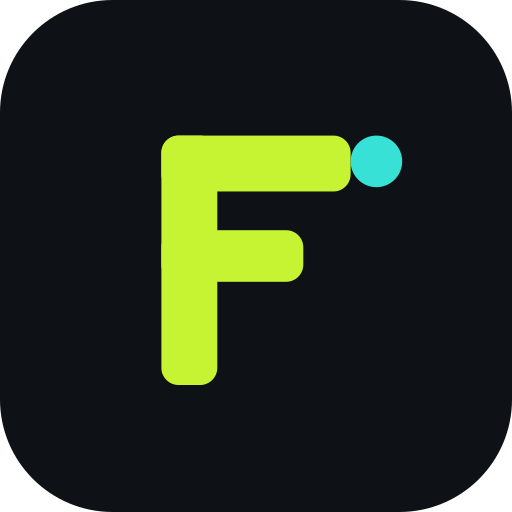
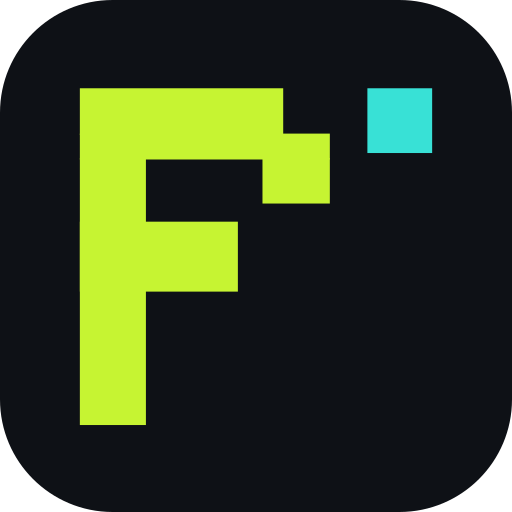
feat(brand): set the wordmark in Pixelify Sans
The Fizz mark now uses a pixel face everywhere it appears as a logo rather
than as prose: nav, footer, login, sidebar, dashboard shell, splash, error
screens, the public menu, the printable menu, and the QR frames.

Two things worth knowing:

- `.font-wordmark` is a plain CSS rule, not an `@theme` token. Tailwind v4
  tree-shakes theme vars along with their utility, and `--font-wordmark` kept
  getting dropped from the output, so every wordmark silently fell back to
  Inter.

- The `F` app icon is the real Pixelify Sans glyph traced off a canvas
  rasterisation and inlined as rects — sharp's SVG rasteriser can't resolve
  fonts, and a hand-drawn F misses the stepped top bar and the top-right hook
  that make the letterform recognisable.

Icons and splashes regenerated, and the service worker version bumped so
installed clients don't keep serving the old mark from the shell cache.

Changed region(s): [[0.1562, 0.1562, 0.8438, 0.8438]]

diff --git a/app/layout.tsx b/app/layout.tsx
@@ -1,5 +1,5 @@
 import type { Metadata, Viewport } from "next";
-import { Space_Grotesk, Inter } from "next/font/google";
+import { Space_Grotesk, Inter, Pixelify_Sans } from "next/font/google";
 import "./globals.css";
 import { Agentation } from "agentation";
 import Toaster from "@/components/fizz/Toaster";
@@ -26,6 +26,13 @@ const sans = Inter({
   subsets: ["latin"],
   weight: ["400", "500", "600"],
   variable: "--font-inter",
+});
+
+// Pixel face for the wordmark only.
+const wordmark = Pixelify_Sans({
+  subsets: ["latin"],
+  weight: ["500", "700"],
+  variable: "--font-pixel",
 });
 
 export const metadata: Metadata = {
@@ -71,7 +78,7 @@ export default function RootLayout({
     // <html> before React hydrates — suppress the mismatch they cause.
     <html
       lang="en"
-      className={`${display.variable} ${sans.variable} h-full antialiased`}
+      className={`${display.variable} ${sans.variable} ${wordmark.variable} h-full antialiased`}
       suppressHydrationWarning
     >
       <body className="min-h-full bg-ink text-cream">

diff --git a/app/login/page.tsx b/app/login/page.tsx
@@ -16,7 +16,7 @@ export default function LoginPage() {
         <Bubbles />
         <Link
           href="/"
-          className="relative z-10 font-display text-3xl font-bold tracking-tight"
+          className="relative z-10 font-wordmark font-bold text-3xl"
         >
           Fi<span className="text-fizz">zz</span>
           <span className="align-super text-xs text-bubble">●</span>
@@ -46,7 +46,7 @@ export default function LoginPage() {
         <div className="mx-auto w-full max-w-sm">
           <Link
             href="/"
-            className="mb-10 inline-block font-display text-2xl font-bold tracking-tight lg:hidden"
+            className="mb-10 inline-block font-wordmark font-bold text-2xl lg:hidden"
           >
             Fi<span className="text-fizz">zz</span>
             <span className="align-super text-xs text-bubble">●</span>

diff --git a/components/fizz/menu/PrintableMenu.tsx b/components/fizz/menu/PrintableMenu.tsx
@@ -848,7 +848,7 @@ const PRINT_CSS = `
 .pdf-reach-value { font-size: 15px; color: var(--pg-fg); font-weight: 600; }
 .pdf-hours { margin: 22px 0 0; font-size: 14px; color: var(--pg-muted); }
 .pdf-thanks { margin: 48px 0 0; font-size: 26px; font-weight: 700; color: var(--pg-fg); }
-.pdf-wordmark { margin: 10px 0 0; font-size: 14px; color: var(--pg-muted); font-weight: 600; }
+.pdf-wordmark { margin: 10px 0 0; font-size: 14px; color: var(--pg-muted); font-weight: 700; font-family: var(--font-pixel), ui-monospace, monospace; }
 .pdf-dot { color: var(--pg-accent); vertical-align: super; font-size: 9px; margin-left: 1px; }
 
 /* ===== Creative layout extras ===== */

diff --git a/components/fizz/landing/Loop.tsx b/components/fizz/landing/Loop.tsx
@@ -40,7 +40,7 @@ export default function Loop() {
 
             {/* Center hub */}
             <div className="absolute left-1/2 top-1/2 flex h-28 w-28 -translate-x-1/2 -translate-y-1/2 flex-col items-center justify-center rounded-full border border-ink-line bg-ink-soft text-center">
-              <span className="font-display text-lg font-bold tracking-tight">
+              <span className="font-wordmark font-bold text-lg">
                 Fi<span className="text-fizz">zz</span>
                 <span className="align-super text-[0.6em] text-bubble">●</span>
               </span>

diff --git a/components/fizz/menu/MenuQrModal.tsx b/components/fizz/menu/MenuQrModal.tsx
@@ -448,7 +448,10 @@ export default function MenuQrModal({
 
               <div style={{ fontSize: 11, color: frame.muted, wordBreak: "break-all" }}>
                 {url.replace(/^https?:\/\//, "")}
-                <div style={{ marginTop: 8, fontSize: 11, color: frame.accent, fontWeight: 600 }}>
+                <div
+                  className="font-wordmark"
+                  style={{ marginTop: 8, fontSize: 12, color: frame.accent, fontWeight: 700 }}
+                >
                   Fizz ●
                 </div>
               </div>

diff --git a/components/fizz/Nav.tsx b/components/fizz/Nav.tsx
@@ -14,7 +14,7 @@ export default function Nav() {
   return (
     <header className="sticky top-0 z-50 border-b border-ink-line bg-ink/80 backdrop-blur">
       <nav className="mx-auto flex max-w-6xl items-center justify-between px-6 py-4">
-        <a href="#top" className="font-display text-2xl font-bold tracking-tight">
+        <a href="#top" className="font-wordmark font-bold text-2xl">
           Fi<span className="text-fizz">zz</span>
           <span className="align-super text-xs text-bubble">●</span>
         </a>

diff --git a/app/m/[slug]/page.tsx b/app/m/[slug]/page.tsx
@@ -172,7 +172,7 @@ export default async function PublicMenuPage({
 
         <footer className="mt-16 border-t border-[var(--m-line)] pt-6 text-center text-[0.8em] text-[var(--m-muted)]">
           Menu by{" "}
-          <span className="font-semibold text-[var(--m-text)]">
+          <span className="font-wordmark font-bold text-[var(--m-text)]">
             Fi<span style={{ color: accent }}>zz</span>
             <span className="align-super text-[0.7em]" style={{ color: accent }}>●</span>
           </span>

diff --git a/components/fizz/Hero.tsx b/components/fizz/Hero.tsx
@@ -26,7 +26,7 @@ export default function Hero() {
             The Café Operating System
           </span>
 
-          <div className="mt-6 font-display text-[clamp(52px,10vw,104px)] font-bold leading-none tracking-[-0.04em]">
+          <div className="mt-6 font-wordmark font-bold text-[clamp(52px,10vw,104px)] leading-none">
             Fi<span className="text-fizz">zz</span>
             <span className="align-super text-[0.4em] text-bubble">●</span>
           </div>

diff --git a/components/fizz/pwa/SplashScreen.tsx b/components/fizz/pwa/SplashScreen.tsx
@@ -54,7 +54,7 @@ export default function SplashScreen() {
     >
       <Bubbles />
       <div className="relative flex flex-col items-center gap-5">
-        <span className="fizz-splash-mark font-display text-6xl font-bold tracking-tight">
+        <span className="fizz-splash-mark font-wordmark font-bold text-6xl">
           Fi<span className="text-fizz">zz</span>
           <span className="align-super text-xl text-bubble">●</span>
         </span>

diff --git a/components/fizz/Footer.tsx b/components/fizz/Footer.tsx
@@ -23,7 +23,7 @@ export default function Footer() {
         <div className="grid gap-10 md:grid-cols-[1.4fr_1fr_1fr]">
           {/* Brand */}
           <div>
-            <div className="font-display text-2xl font-bold tracking-tight">
+            <div className="font-wordmark font-bold text-2xl">
               Fi<span className="text-fizz">zz</span>
               <span className="align-super text-xs text-bubble">●</span>
             </div>

diff --git a/components/fizz/dashboard/Sidebar.tsx b/components/fizz/dashboard/Sidebar.tsx
@@ -48,7 +48,7 @@ export default function Sidebar({
       <div className="flex h-16 items-center justify-between gap-2 border-b border-ink-line px-5">
         <Link
           href="/dashboard"
-          className="font-display text-2xl font-bold tracking-tight"
+          className="font-wordmark font-bold text-2xl"
         >
           Fi<span className="text-fizz">zz</span>
           {!collapsed && (

diff --git a/components/fizz/dashboard/DashboardShell.tsx b/components/fizz/dashboard/DashboardShell.tsx
@@ -57,7 +57,7 @@ export default function DashboardShell({
               </h1>
             </>
           ) : (
-            <span className="font-display text-xl font-bold tracking-tight">
+            <span className="font-wordmark font-bold text-xl">
               Fi<span className="text-fizz">zz</span>
               <span className="align-super text-xs text-bubble">●</span>
             </span>
